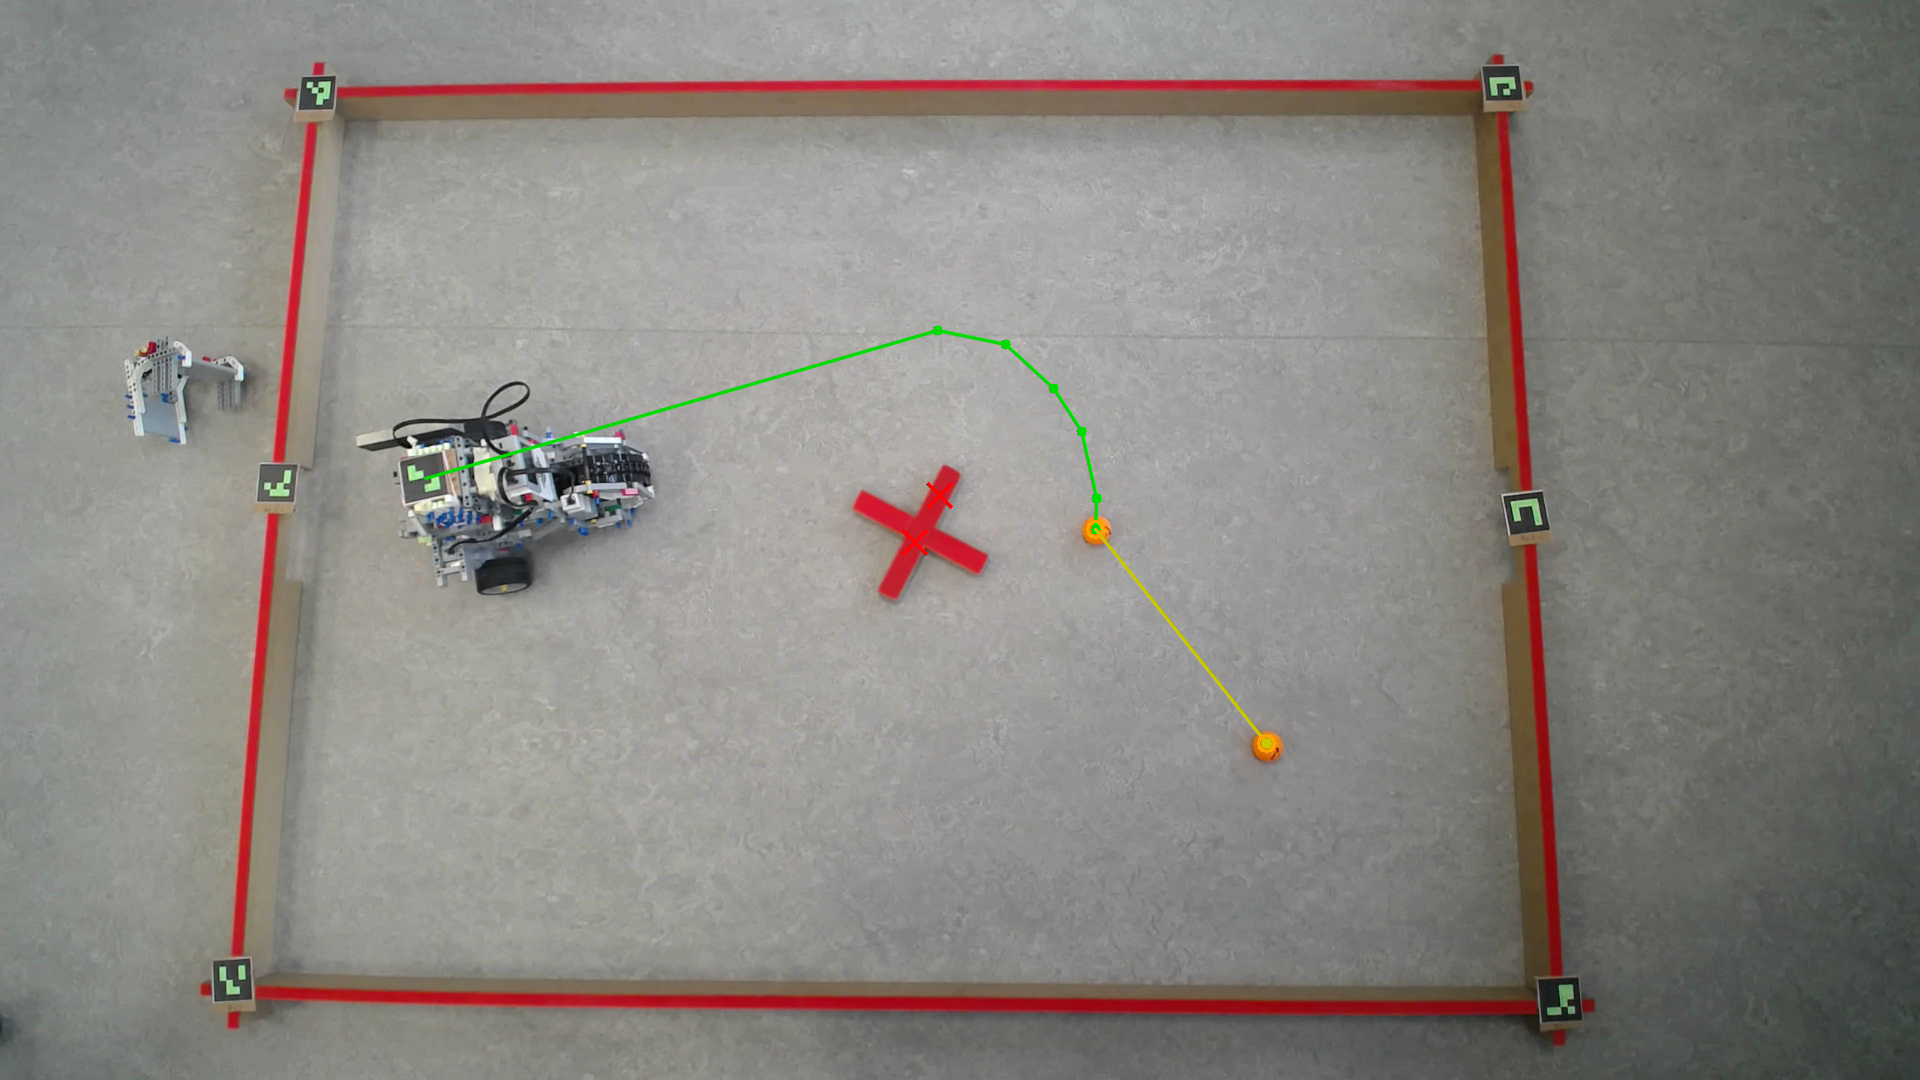
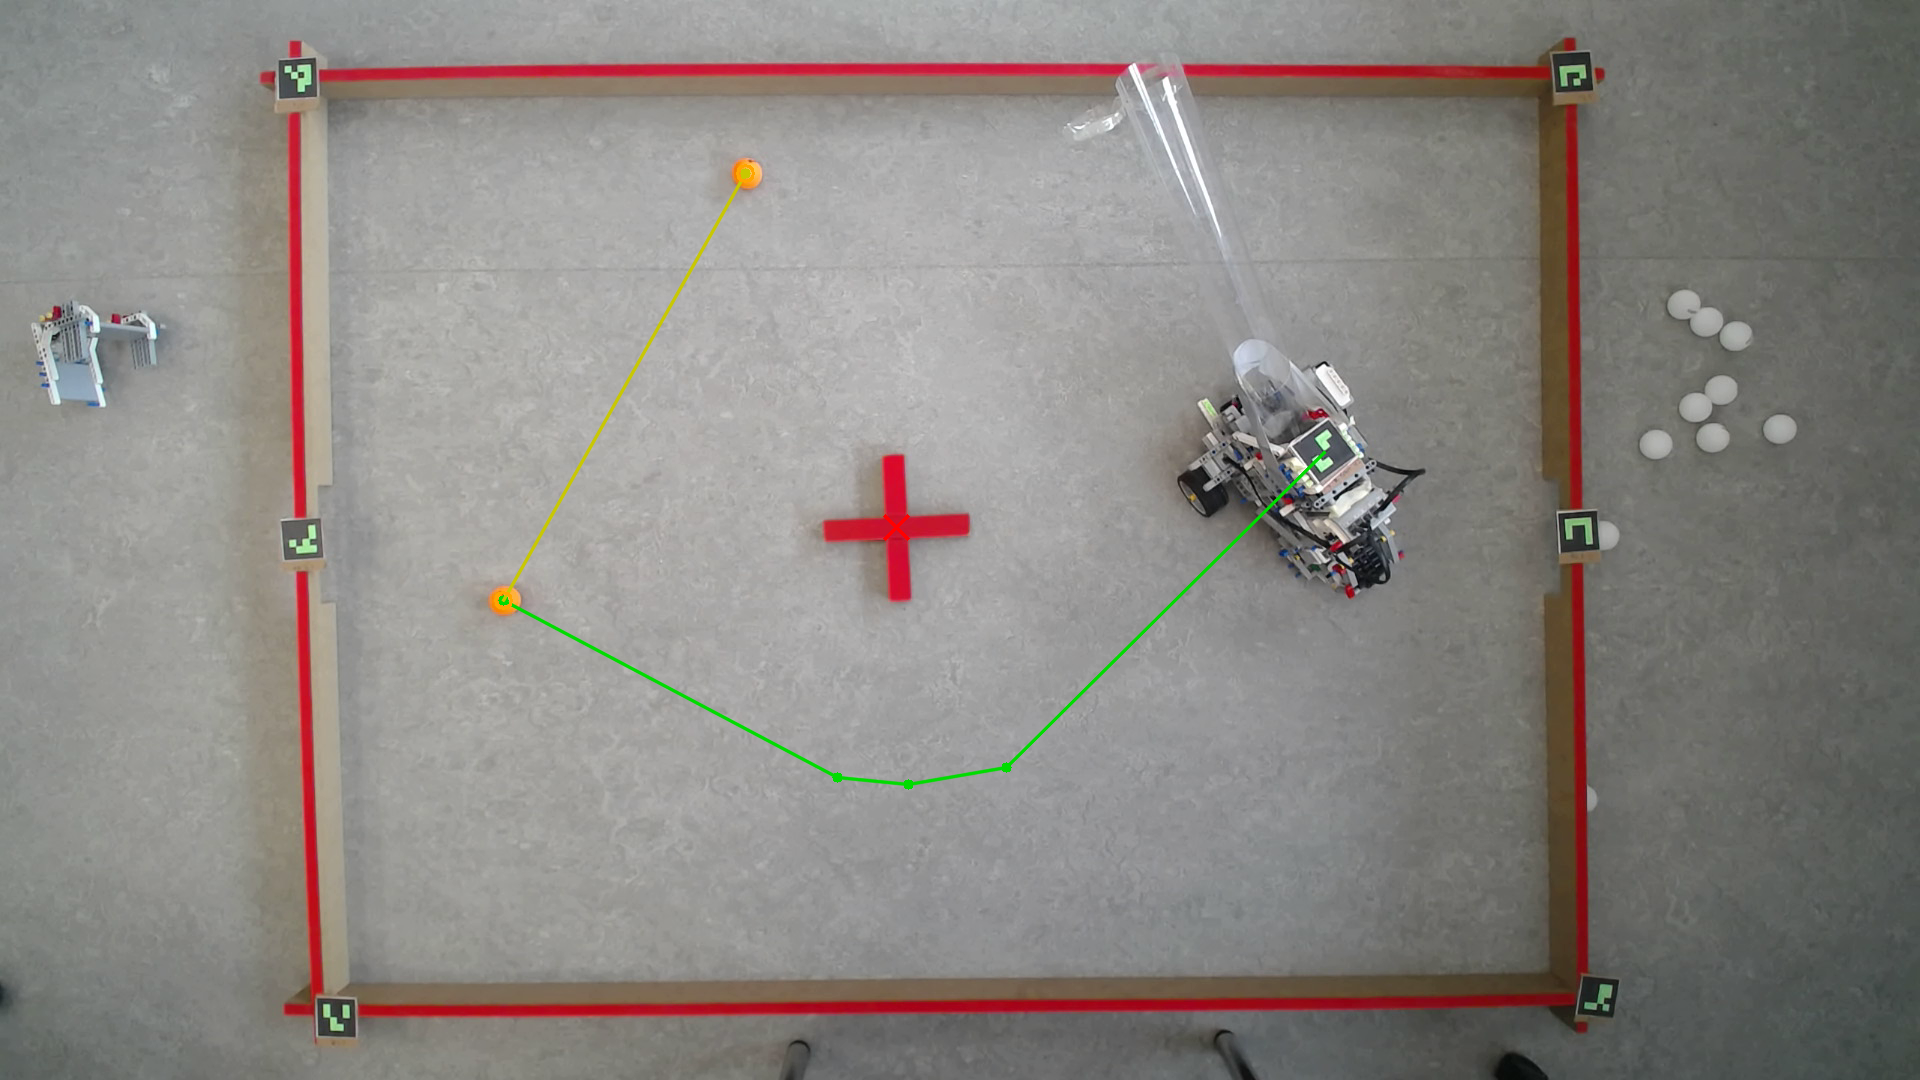
manual control

diff --git a/src/server/manual_control.py b/src/server/manual_control.py
@@ -1,0 +1,118 @@
+import sys
+import os
+import time
+import tkinter as tk
+
+sys.path.insert(0, os.path.dirname(os.path.dirname(os.path.dirname(os.path.abspath(__file__)))))
+
+from src.communication.connection import PCClient
+from config import ROBOT_IP
+
+class ManualControlApp:
+    def __init__(self, root, client):
+        self.root = root
+        self.client = client
+        self.root.title("GolfBot Manuel Styring")
+        self.root.geometry("400x300")
+        self.root.configure(bg="#2E3440")
+
+        self.current_drive = "STOP"
+        self.current_collect = "COLLECT_STOP"
+
+        # Holder styr på hvilke taster der er nede
+        self.keys_pressed = {
+            'w': False, 's': False, 'a': False, 'd': False,
+            'e': False, 'q': False
+        }
+
+        # UI Elementer
+        title = tk.Label(root, text="GolfBot Styring", font=("Arial", 16, "bold"), bg="#2E3440", fg="#D8DEE9")
+        title.pack(pady=10)
+
+        info = tk.Label(root, text="Hold vinduet markeret for at styre!\n\nW / S : Kør fremad / bagud\nA / D : Drej venstre / højre\nE / Q : Start opsamler frem / baglæns\nEsc : Afslut", 
+                        font=("Arial", 12), bg="#2E3440", fg="#A3BE8C", justify=tk.LEFT)
+        info.pack(pady=20)
+
+        self.status_label = tk.Label(root, text="Status: Forbundet", font=("Arial", 10), bg="#2E3440", fg="#88C0D0")
+        self.status_label.pack(side=tk.BOTTOM, pady=10)
+
+        # Bind taster
+        self.root.bind("<KeyPress>", self.on_key_press)
+        self.root.bind("<KeyRelease>", self.on_key_release)
+
+        # Start opdaterings-loop
+        self.update_robot()
+
+    def on_key_press(self, event):
+        key = event.keysym.lower()
+        if key == 'escape':
+            self.quit_app()
+        if key in self.keys_pressed:
+            self.keys_pressed[key] = True
+
+    def on_key_release(self, event):
+        key = event.keysym.lower()
+        if key in self.keys_pressed:
+            self.keys_pressed[key] = False
+
+    def update_robot(self):
+        # --- DRIVE KONTROL ---
+        new_drive = "STOP"
+        if self.keys_pressed['w']:
+            new_drive = "FWD"
+        elif self.keys_pressed['s']:
+            new_drive = "BWD"
+        elif self.keys_pressed['a']:
+            new_drive = "LEFT"
+        elif self.keys_pressed['d']:
+            new_drive = "RIGHT"
+
+        if new_drive != self.current_drive:
+            self.client.send_command(new_drive + "\n")
+            self.client.wait_for_reply()
+            self.current_drive = new_drive
+            self.status_label.config(text=f"Motor: {new_drive} | Opsamler: {self.current_collect}")
+
+        # --- OPSAMLER KONTROL ---
+        new_collect = "COLLECT_STOP"
+        if self.keys_pressed['e']:
+            new_collect = "COLLECT_FWD"
+        elif self.keys_pressed['q']:
+            new_collect = "COLLECT_BWD"
+
+        if new_collect != self.current_collect:
+            self.client.send_command(new_collect + "\n")
+            self.client.wait_for_reply()
+            self.current_collect = new_collect
+            self.status_label.config(text=f"Motor: {self.current_drive} | Opsamler: {new_collect}")
+
+        # Kør igen om 50ms
+        self.root.after(50, self.update_robot)
+
+    def quit_app(self):
+        print("\nAfslutter...")
+        self.client.send_command("EXIT\n")
+        self.client.close()
+        self.root.destroy()
+
+def main():
+    print("=====================================")
+    print("  GolfBot PC - MANUEL STYRING        ")
+    print("=====================================")
+    client = PCClient(ROBOT_IP)
+    
+    if not client.connect_to_robot():
+        return
+
+    # Opretter et lille vindue til at fange tastetryk via Tkinter
+    # (Kræver ingen pip installationer eller administrator rettigheder)
+    root = tk.Tk()
+    app = ManualControlApp(root, client)
+    
+    # Når vinduet lukkes via X i hjørnet
+    root.protocol("WM_DELETE_WINDOW", app.quit_app)
+    
+    root.mainloop()
+
+if __name__ == "__main__":
+    main()

diff --git a/src/robot/manual_robot.py b/src/robot/manual_robot.py
@@ -1,0 +1,85 @@
+#!/usr/bin/env python3
+"""
+GolfBot -- Manuel EV3 Robot
+==============================
+Et selvstændigt script der KUN bruges til manuel styring.
+Kør dette på EV3'en i stedet for main.py, når du vil styre via WASD.
+"""
+
+import sys
+import os
+
+sys.path.insert(0, os.path.dirname(os.path.abspath(__file__)))
+sys.path.insert(0, os.path.dirname(os.path.dirname(os.path.abspath(__file__))))
+sys.path.insert(0, os.path.dirname(os.path.dirname(os.path.dirname(os.path.abspath(__file__)))))
+
+from communication.connection import RobotServer
+from motor_controller import MotorController
+from config import MOTOR_SPEED
+from ev3dev2.motor import SpeedPercent
+
+try:
+    try:
+        from collector import BallCollector
+    except ImportError:
+        from robot.collector import BallCollector
+except ImportError as e:
+    BallCollector = None
+
+
+def main():
+    server = RobotServer()
+    mc = MotorController()
+    collector = BallCollector() if BallCollector else None
+
+    print("=====================================")
+    print("  GolfBot EV3 - MANUEL STYRING       ")
+    print("=====================================")
+    print("Venter paa forbindelse fra PC...")
+    server.wait_for_connection()
+
+    try:
+        while True:
+            raw = server.receive_message()
+            if raw is None:
+                print("Forbindelse mistet. Stopper motorer.")
+                break
+
+            cmd = raw.strip().upper()
+            
+            if cmd == "FWD":
+                mc.tank.on(SpeedPercent(MOTOR_SPEED), SpeedPercent(MOTOR_SPEED))
+            elif cmd == "BWD":
+                mc.tank.on(SpeedPercent(-MOTOR_SPEED), SpeedPercent(-MOTOR_SPEED))
+            elif cmd == "LEFT":
+                mc.tank.on(SpeedPercent(-MOTOR_SPEED), SpeedPercent(MOTOR_SPEED))
+            elif cmd == "RIGHT":
+                mc.tank.on(SpeedPercent(MOTOR_SPEED), SpeedPercent(-MOTOR_SPEED))
+            elif cmd == "STOP":
+                mc.tank.off()
+            elif cmd == "COLLECT_FWD":
+                if collector: collector.start_collection()
+            elif cmd == "COLLECT_BWD":
+                if collector: collector.eject_ball()
+            elif cmd == "COLLECT_STOP":
+                if collector: collector.stop()
+            elif cmd == "EXIT":
+                mc.tank.off()
+                if collector: collector.stop()
+                server.send_reply("DONE\n")
+                break
+            else:
+                pass # Ignorerer ukendte
+                
+            # Send et simpelt svar tilbage, så PC'en ved at kommandoen er modtaget
+            server.send_reply("OK\n")
+
+    finally:
+        mc.stop()
+        if collector:
+            collector.stop()
+        server.close()
+        print("Manuel robot afsluttet.")
+
+if __name__ == "__main__":
+    main()

diff --git a/src/vision/color_calibrator.py b/src/vision/color_calibrator.py
@@ -65,18 +65,17 @@ class ColorCalibrator:
         }
         import os
         path = os.path.join(PROFILES_DIR, f"{self.profile_name}.json")
-        with open(path, "w") as f:
-                    
+        
         # Bevar eksisterende formfiltre (f.eks. til orange, hvid eller roed)
-            if os.path.exists(path):
-                try:
-                    with open(path, "r") as f:
-                        existing_profile = json.load(f)
-                        for key in ["min_circularity", "max_aspect_ratio", "min_area", "max_area"]:
-                            if key in existing_profile:
-                                profile[key] = existing_profile[key]
-                except Exception:
-                    pass
+        if os.path.exists(path):
+            try:
+                with open(path, "r") as f:
+                    existing_profile = json.load(f)
+                    for key in ["min_circularity", "max_aspect_ratio", "min_area", "max_area"]:
+                        if key in existing_profile:
+                            profile[key] = existing_profile[key]
+            except Exception:
+                pass
 
         # Særlige standardværdier hvis de ikke findes i forvejen
         if self.profile_name in ["orange", "hvid"] and "min_circularity" not in profile:
@@ -85,6 +84,8 @@ class ColorCalibrator:
         elif self.profile_name == "roed" and "min_circularity" not in profile:
             profile["min_circularity"] = None
             profile["max_aspect_ratio"] = None
+
+        with open(path, "w") as f:
             json.dump(profile, f, indent=2)
         print(f"  Profil gemt: {path}")
 
